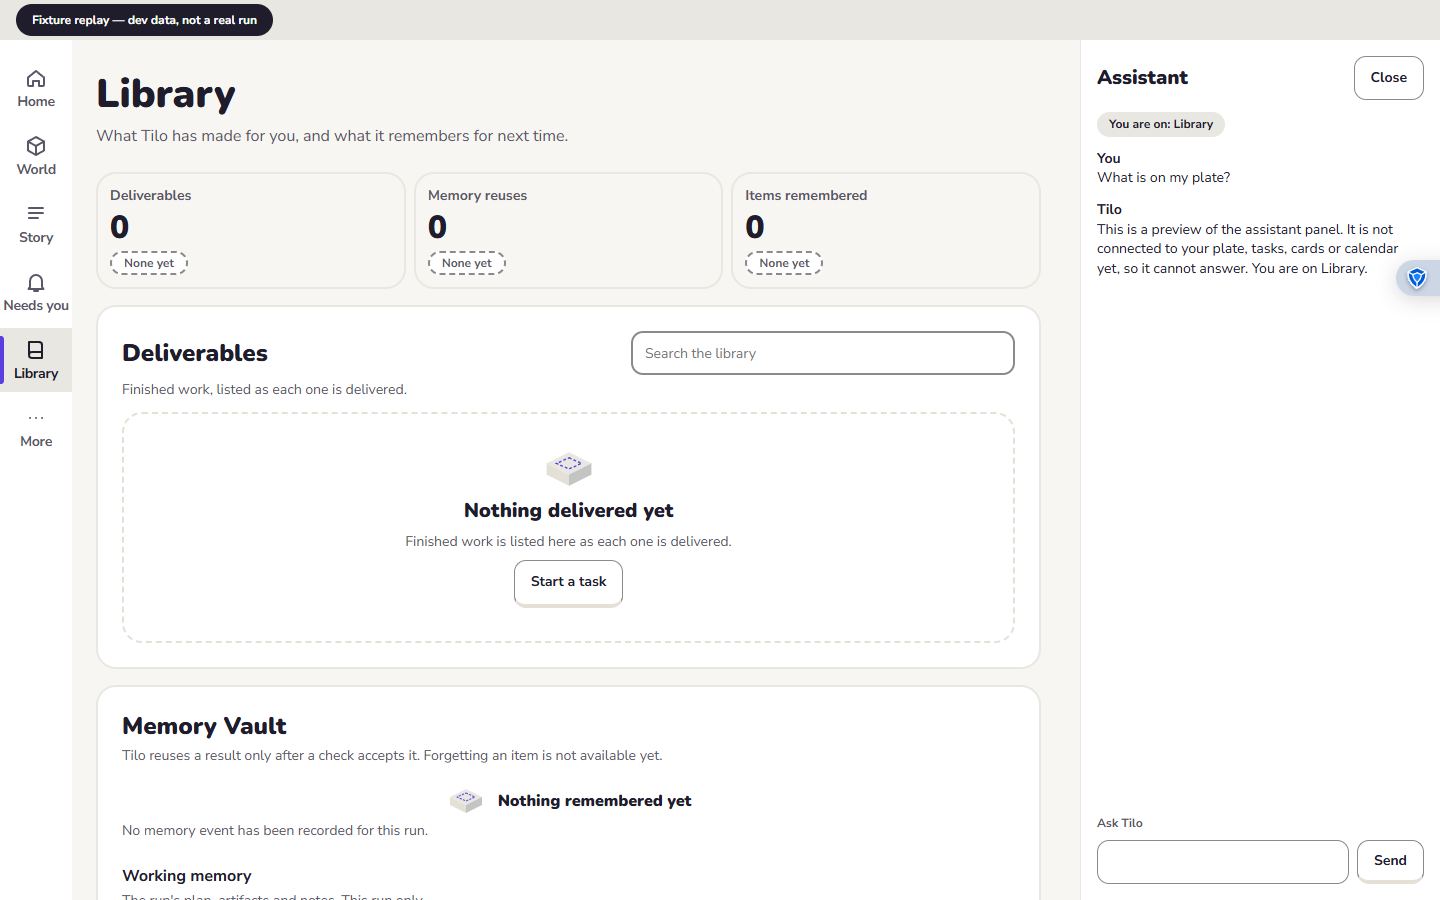
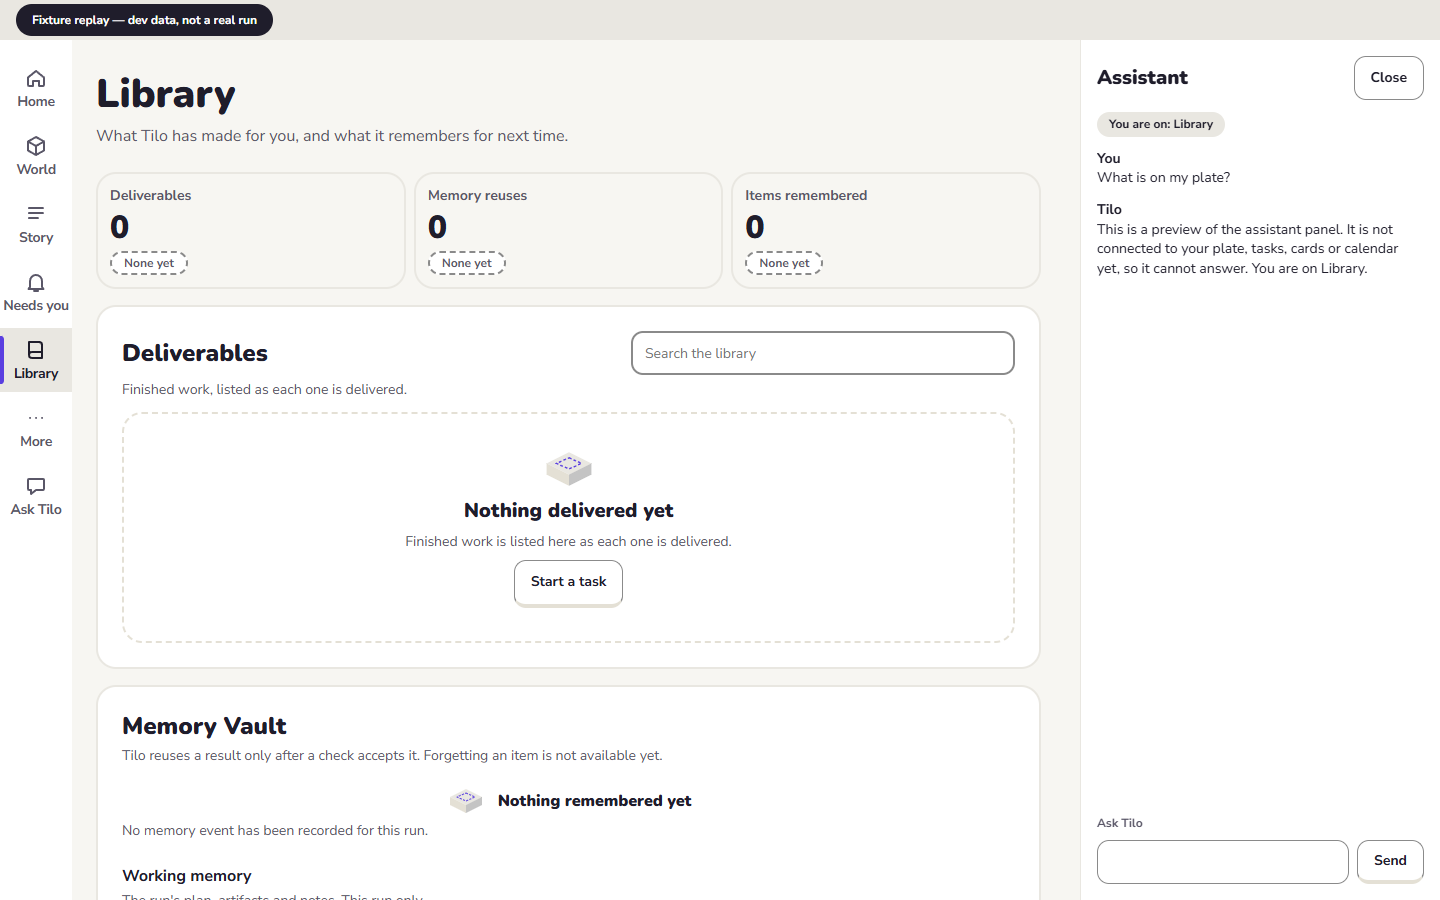
PPL-40c: launcher becomes a primary-nav item, panel uses showModal
The fixed launcher covered controls on phone and desktop. It is now the last
item of the left rail and the bottom tabs, in the page flow, so it intersects
nothing; an e2e check asserts that on every screen at 1440x900 and 390x844.
The panel is opened with showModal() so the page behind it is inert and
aria-modal matches. Esc still hands focus back to the launcher. Screenshots
regenerated.

Req: PPL-40c

diff --git a/apps/web/src/assistant/AssistantPanel.tsx b/apps/web/src/assistant/AssistantPanel.tsx
@@ -1,31 +1,16 @@
 // S-30 assistant panel shell (FR-PA-12, FR-PA-18). A launcher on every screen opens an overlay: a
-// side panel on desktop, a bottom sheet on a phone. It is fixed over the page, so opening it moves
-// nothing (CLS 0). It shows the screen's context as a chip, traps focus while open, closes on Esc and
-// hands focus back to the launcher, and keeps its open state for the browser session. Answers come
-// from an adapter (fixture for now). It never animates: no transition, no streaming effect.
+// side panel on desktop, a bottom sheet on a phone. It is a modal <dialog> (showModal), fixed over
+// the page, so opening it moves nothing (CLS 0) and the page behind it is inert. It shows the
+// screen's context as a chip, closes on Esc and hands focus back to the launcher (an item of the
+// primary navigation, AssistantLauncher), and keeps its open state for the browser session. Answers
+// come from an adapter (fixture for now). It never animates: no transition, no streaming effect.
 import { type FormEvent, type KeyboardEvent, useEffect, useRef, useState } from "react";
 import { usePathname } from "../router";
 import { useScrolls } from "../screens/kit";
 import { useSelection } from "../world/selection";
 import { type AssistantAdapter, type AssistantReply, fixtureAdapter } from "./adapter";
 import { contextOf, worldOf } from "./context";
-
-const OPEN_KEY = "tilo.assistant.open";
-const readOpen = (): boolean => {
-  try {
-    return window.sessionStorage.getItem(OPEN_KEY) === "1";
-  } catch {
-    return false; // storage can be blocked; the panel then simply starts closed
-  }
-};
-const writeOpen = (open: boolean) => {
-  try {
-    if (open) window.sessionStorage.setItem(OPEN_KEY, "1");
-    else window.sessionStorage.removeItem(OPEN_KEY);
-  } catch {
-    // not persisted
-  }
-};
+import { setAssistantOpen, useAssistantOpen } from "./openState";
 
 interface Turn {
   readonly id: number;
@@ -38,7 +23,8 @@ const FOCUSABLE =
   "button:not([disabled]), input:not([disabled]), textarea:not([disabled]), a[href]";
 
 export function AssistantPanel({ adapter = fixtureAdapter }: { adapter?: AssistantAdapter }) {
-  const [open, setOpen] = useState(readOpen);
+  const open = useAssistantOpen();
+  const setOpen = setAssistantOpen;
   const [turns, setTurns] = useState<readonly Turn[]>([]);
   const [question, setQuestion] = useState("");
   const [busy, setBusy] = useState(false);
@@ -47,7 +33,6 @@ export function AssistantPanel({ adapter = fixtureAdapter }: { adapter?: Assista
   const [selected] = useSelection(world ?? "");
   const context = contextOf(path, world ? selected : null);
   const panel = useRef<HTMLDialogElement>(null);
-  const launcher = useRef<HTMLButtonElement>(null);
   const input = useRef<HTMLInputElement>(null);
   const log = useRef<HTMLDivElement>(null);
   const scrolls = useScrolls(log); // a log that scrolls is a keyboard stop (WCAG 2.1.1)
@@ -55,9 +40,17 @@ export function AssistantPanel({ adapter = fixtureAdapter }: { adapter?: Assista
   const next = useRef(1);
 
   useEffect(() => {
-    writeOpen(open);
+    const el = panel.current;
+    if (open && el && !el.open) {
+      // showModal makes the page behind inert and traps focus; happy-dom and old browsers may lack it.
+      if (typeof el.showModal === "function") el.showModal();
+      else el.setAttribute("open", "");
+    }
     if (open) input.current?.focus();
-    else if (wasOpen.current) launcher.current?.focus(); // hand focus back, once, after a close
+    else if (wasOpen.current) {
+      // hand focus back, once, after a close
+      document.querySelector<HTMLElement>("[data-assistant-control]")?.focus();
+    }
     wasOpen.current = open;
   }, [open]);
 
@@ -107,27 +100,18 @@ export function AssistantPanel({ adapter = fixtureAdapter }: { adapter?: Assista
 
   return (
     <>
-      <button
-        ref={launcher}
-        type="button"
-        className="assistant-open"
-        data-testid="assistant-open"
-        data-assistant-control
-        aria-expanded={open}
-        aria-haspopup="dialog"
-        onClick={() => setOpen((o) => !o)}
-      >
-        Ask Tilo
-      </button>
       {open && (
         <dialog
           ref={panel}
           className="assistant-panel"
           data-testid="assistant-panel"
-          open
           aria-modal="true"
           aria-label="Assistant"
           onKeyDown={onKeyDown}
+          onCancel={(e) => {
+            e.preventDefault(); // the native Esc would close it without our focus hand-back
+            setOpen(false);
+          }}
         >
           <div className="assistant-head">
             <h2>Assistant</h2>

diff --git a/apps/web/src/styles/app.css b/apps/web/src/styles/app.css
@@ -335,11 +335,12 @@ textarea {
 }
 .bottom-tabs .nav-btn {
   flex: 1;
-  min-width: 0;
+  min-width: min-content; /* six tabs share 320 px: none is narrower than its one-line label */
   height: var(--button-height-desktop); /* the sheets above the tabs clear this height */
   font-size: var(--text-12);
 }
-a.nav-btn {
+a.nav-btn,
+button.nav-btn {
   position: relative;
   display: flex;
   flex-direction: column-reverse; /* the icon above its label; the label first in the source */
@@ -355,7 +356,8 @@ a.nav-btn {
   text-decoration: none;
   font: 700 var(--text-14) / 1.1 var(--font-ui);
 }
-.left-rail a.nav-btn {
+.left-rail a.nav-btn,
+.left-rail button.nav-btn {
   min-height: calc(64px * var(--ui-scale, 1));
 }
 .nav-label {
@@ -383,7 +385,8 @@ a.nav-btn {
   font: 900 var(--text-12) / 20px var(--font-ui);
   letter-spacing: 0;
 }
-a.nav-btn:hover {
+a.nav-btn:hover,
+button.nav-btn:hover {
   background: var(--color-surface-0);
 }
 a.nav-btn[aria-current="page"] {
@@ -2209,24 +2212,12 @@ html[data-density="professional"] .app-shell {
   --space-32: 1.5rem;
 }
 
-/* S-30 assistant panel (FR-PA-12): fixed over the page, so opening it moves nothing. A side panel on
-   desktop, a bottom sheet on a phone. No transition or animation: it appears and disappears. */
-.assistant-open {
-  position: fixed;
-  z-index: 800;
-  right: var(--space-16);
-  bottom: var(--space-16);
-  min-height: 44px;
-  padding: 0 var(--space-16);
-  border: 1px solid var(--color-ink-3);
-  border-bottom: 4px solid var(--color-fog);
-  border-radius: var(--radius-controls);
-  background: var(--color-surface-1);
-  color: var(--color-ink-1);
-  font: 700 var(--text-14) / 1 var(--font-ui);
-  cursor: pointer;
+/* S-30 assistant panel (FR-PA-12): a modal dialog fixed over the page, so opening it moves nothing.
+   A side panel on desktop, a bottom sheet on a phone. Its launcher is a nav item (.nav-btn). No
+   transition or animation: it appears and disappears. */
+.assistant-panel::backdrop {
+  background: transparent;
 }
-.assistant-open:focus-visible,
 .assistant-close:focus-visible,
 .assistant-log:focus-visible,
 .assistant-form input:focus-visible {
@@ -2244,6 +2235,7 @@ html[data-density="professional"] .app-shell {
   width: 22.5rem;
   max-width: 100%;
   height: auto;
+  max-height: none; /* the browser's modal-dialog cap would stop the panel short of the bottom */
   margin: 0;
   padding: var(--space-16);
   border: 0;
@@ -2325,9 +2317,6 @@ html[data-density="professional"] .app-shell {
   min-height: 44px;
 }
 @media (max-width: 767px) {
-  .assistant-open {
-    bottom: calc(var(--button-height-desktop) + var(--space-16)); /* clear the bottom tabs */
-  }
   .assistant-panel {
     inset: auto 0 0 0;
     width: auto;

diff --git a/apps/web/e2e/assistant-panel.spec.ts b/apps/web/e2e/assistant-panel.spec.ts
@@ -68,6 +68,58 @@ for (const viewport of [DESKTOP, MOBILE]) {
     });
   }
 
+  test(`FR-PA-12 at ${at}: the launcher's box covers no button, link or input on any screen, and the panel is modal`, async ({
+    page,
+  }) => {
+    test.setTimeout(240_000);
+    await page.setViewportSize(viewport);
+    const paths = [
+      ...SCREENS.map(([p]) => p),
+      "/no-such-page",
+      "/more",
+      "/estimate",
+      "/team",
+      "/pilot",
+      "/needs-you/gate",
+      "/world/w_village_basic/story",
+      "/world/w_village_basic/trace",
+      "/world/w_village_basic/delivery",
+      "/world/w_village_basic/inspect/B1",
+    ];
+    for (const path of paths) {
+      await page.goto(`${path}${path.startsWith("/world/") ? "?speed=1000" : ""}`);
+      const launcher = page.getByTestId("assistant-open");
+      await expect(launcher).toBeVisible({ timeout: 30_000 });
+      await page.waitForTimeout(300);
+      const covered = await launcher.evaluate((el) => {
+        const me = el.getBoundingClientRect();
+        const hit: string[] = [];
+        for (const other of document.querySelectorAll(
+          "button, a[href], input, select, textarea, summary, [role='button']",
+        )) {
+          if (other === el || el.contains(other)) continue;
+          const r = other.getBoundingClientRect();
+          if (r.width === 0 || r.height === 0) continue; // not displayed
+          const w = Math.min(me.right, r.right) - Math.max(me.left, r.left);
+          const h = Math.min(me.bottom, r.bottom) - Math.max(me.top, r.top);
+          if (w <= 0.5 || h <= 0.5) continue;
+          // Content scrolled out of its own clipped region is not on screen there: only an element
+          // that is painted at the overlap counts.
+          const x = Math.max(me.left, r.left) + w / 2;
+          const y = Math.max(me.top, r.top) + h / 2;
+          if (document.elementsFromPoint(x, y).some((e) => other.contains(e))) {
+            hit.push(`${other.tagName} ${(other.textContent ?? "").trim()}`);
+          }
+        }
+        return hit;
+      });
+      expect(covered, `${path} at ${at}`).toEqual([]);
+    }
+    await page.getByTestId("assistant-open").click();
+    const dialog = page.getByRole("dialog", { name: "Assistant" });
+    expect(await dialog.evaluate((el) => el.matches(":modal"))).toBe(true);
+  });
+
   test(`FR-PA-18 at ${at}: axe clean with the panel open, the answer is a preview notice, the open state persists`, async ({
     page,
   }) => {

diff --git a/apps/web/src/screens/PrimaryNav.tsx b/apps/web/src/screens/PrimaryNav.tsx
@@ -1,8 +1,10 @@
-// PRD 18.3 primary navigation: the desktop left rail and the mobile bottom tabs (World, Story,
-// Needs you, Library, More). Every other screen is reached from More. Real links only: each one
-// goes to a built screen or to a "Coming soon" screen, never to a dead click.
 import { useClient, useIsFixtureClient, useWorldKnown } from "../api/ClientProvider";
 import { FIXTURE_WORLD_ID } from "../api/fixtures/derived";
+// PRD 18.3 primary navigation: the desktop left rail and the mobile bottom tabs (World, Story,
+// Needs you, Library, More). Every other screen is reached from More. Real links only: each one
+// goes to a built screen or to a "Coming soon" screen, never to a dead click. The last item is the
+// Ask Tilo button, which opens the assistant panel.
+import { AssistantLauncher } from "../assistant/AssistantLauncher";
 import { deriveQueue } from "../needs-you/queue";
 import { usePathname } from "../router";
 import { useRunLog } from "../world/runLog";
@@ -87,6 +89,9 @@ export function PrimaryNav({ id, mobile }: { id: string; mobile: boolean }) {
           </AppLink>
         );
       })}
+      {/* Ask Tilo (FR-PA-12) is the last item: a button that opens the panel, in the flow, so it
+          never covers a control. */}
+      <AssistantLauncher />
     </nav>
   );
 }

diff --git a/apps/web/src/assistant/openState.ts b/apps/web/src/assistant/openState.ts
@@ -1,0 +1,38 @@
+// The assistant panel's open state (FR-PA-12), shared by the launcher in the primary navigation and
+// the panel. The browser session is the source of truth, so it survives a reload and a route change;
+// when storage is blocked the panel simply starts closed and stays closed after a reload.
+import { useSyncExternalStore } from "react";
+
+const OPEN_KEY = "tilo.assistant.open";
+const listeners = new Set<() => void>();
+let fallback = false; // used only while storage is blocked, so the button still works
+
+const readOpen = (): boolean => {
+  try {
+    return window.sessionStorage.getItem(OPEN_KEY) === "1";
+  } catch {
+    return fallback;
+  }
+};
+
+export function setAssistantOpen(open: boolean): void {
+  fallback = open;
+  try {
+    if (open) window.sessionStorage.setItem(OPEN_KEY, "1");
+    else window.sessionStorage.removeItem(OPEN_KEY);
+  } catch {
+    // not persisted
+  }
+  for (const l of listeners) l();
+}
+
+export function useAssistantOpen(): boolean {
+  return useSyncExternalStore(
+    (l) => {
+      listeners.add(l);
+      return () => listeners.delete(l);
+    },
+    readOpen,
+    () => false,
+  );
+}

diff --git a/apps/web/src/assistant/AssistantLauncher.tsx b/apps/web/src/assistant/AssistantLauncher.tsx
@@ -1,0 +1,25 @@
+// The "Ask Tilo" launcher (FR-PA-12). It is an item of the primary navigation (the left rail and the
+// phone's bottom tabs), so it sits in the page flow and can never cover a control or a row. The
+// panel it opens is AssistantPanel.
+import { NavIcon } from "../screens/NavIcon";
+import { setAssistantOpen, useAssistantOpen } from "./openState";
+
+export function AssistantLauncher() {
+  const open = useAssistantOpen();
+  return (
+    <button
+      type="button"
+      className="nav-btn"
+      data-testid="assistant-open"
+      data-assistant-control
+      aria-expanded={open}
+      aria-haspopup="dialog"
+      onClick={() => setAssistantOpen(!open)}
+    >
+      <span className="nav-label">Ask Tilo</span>
+      <span className="nav-icon-box">
+        <NavIcon name="assistant" />
+      </span>
+    </button>
+  );
+}

diff --git a/apps/web/src/assistant/AssistantPanel.test.tsx b/apps/web/src/assistant/AssistantPanel.test.tsx
@@ -7,6 +7,7 @@
 import { act } from "react";
 import { createRoot } from "react-dom/client";
 import { afterEach, beforeEach, describe, expect, it, vi } from "vitest";
+import { AssistantLauncher } from "./AssistantLauncher";
 import { AssistantPanel } from "./AssistantPanel";
 import type { AssistantAdapter } from "./adapter";
 import { fixtureAdapter } from "./adapter";
@@ -18,7 +19,12 @@ let root: ReturnType<typeof createRoot>;
 
 async function mount(adapter?: AssistantAdapter) {
   await act(async () => {
-    root.render(<AssistantPanel {...(adapter ? { adapter } : {})} />);
+    root.render(
+      <>
+        <AssistantLauncher />
+        <AssistantPanel {...(adapter ? { adapter } : {})} />
+      </>,
+    );
   });
 }
 const launcher = () => document.querySelector<HTMLButtonElement>('[data-testid="assistant-open"]');

diff --git a/apps/web/src/screens/NavIcon.tsx b/apps/web/src/screens/NavIcon.tsx
@@ -6,6 +6,7 @@ const PATHS: Readonly<Record<string, string>> = {
   story: "M5 6h14M5 11h14M5 16h9",
   needs: "M6 17V11a6 6 0 0 1 12 0v6l1.5 2h-15zM10 21h4",
   library: "M5 4h10a3 3 0 0 1 3 3v13H8a3 3 0 0 1-3-3zM5 17a3 3 0 0 1 3-3h10",
+  assistant: "M5 5h14a1 1 0 0 1 1 1v9a1 1 0 0 1-1 1h-7l-5 4v-4H5a1 1 0 0 1-1-1V6a1 1 0 0 1 1-1z",
   more: "M6 12h.01M12 12h.01M18 12h.01",
 };
 
